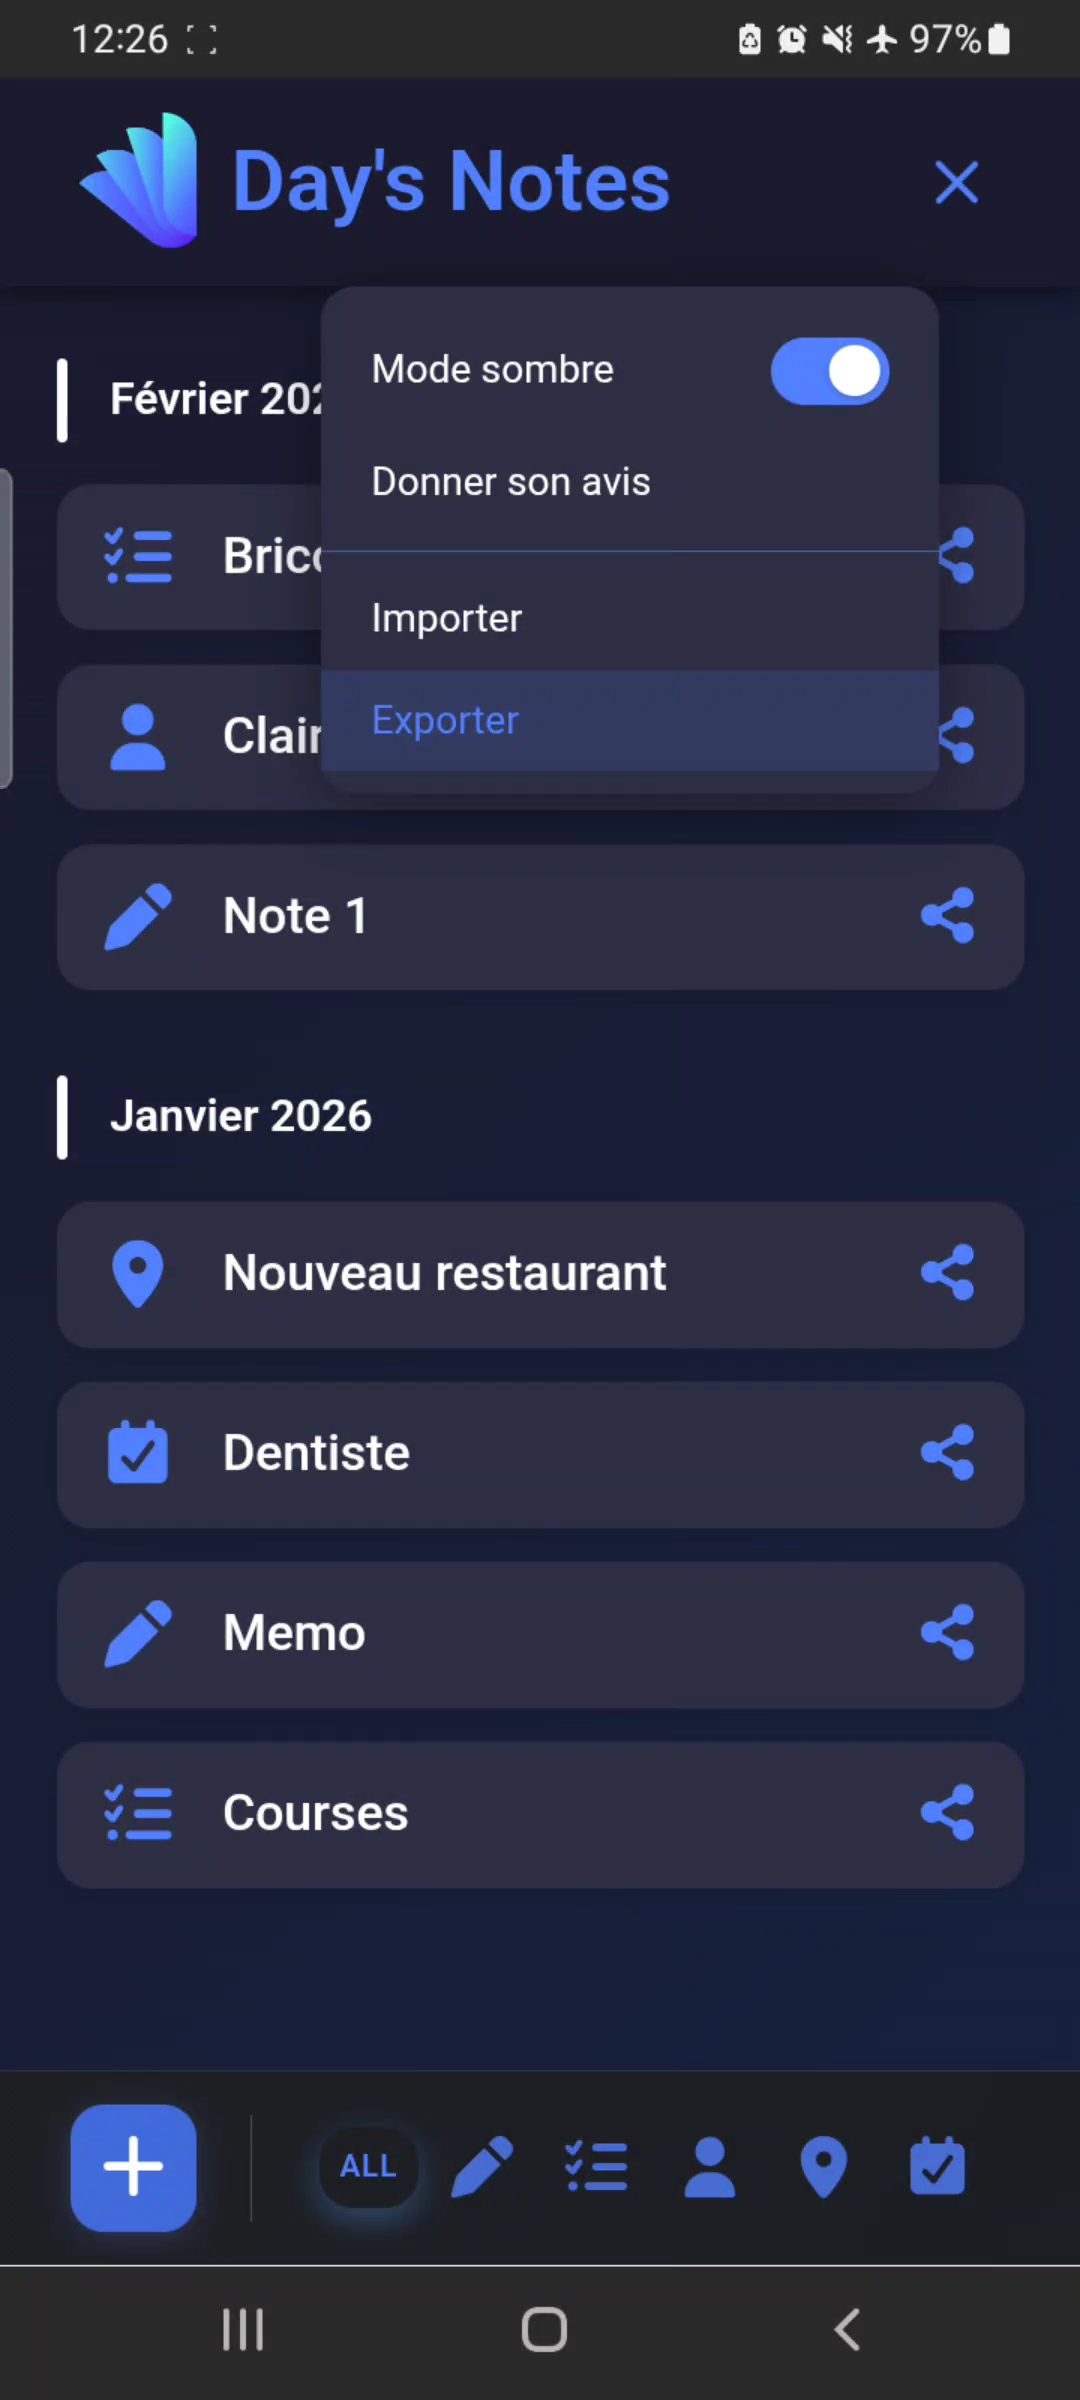
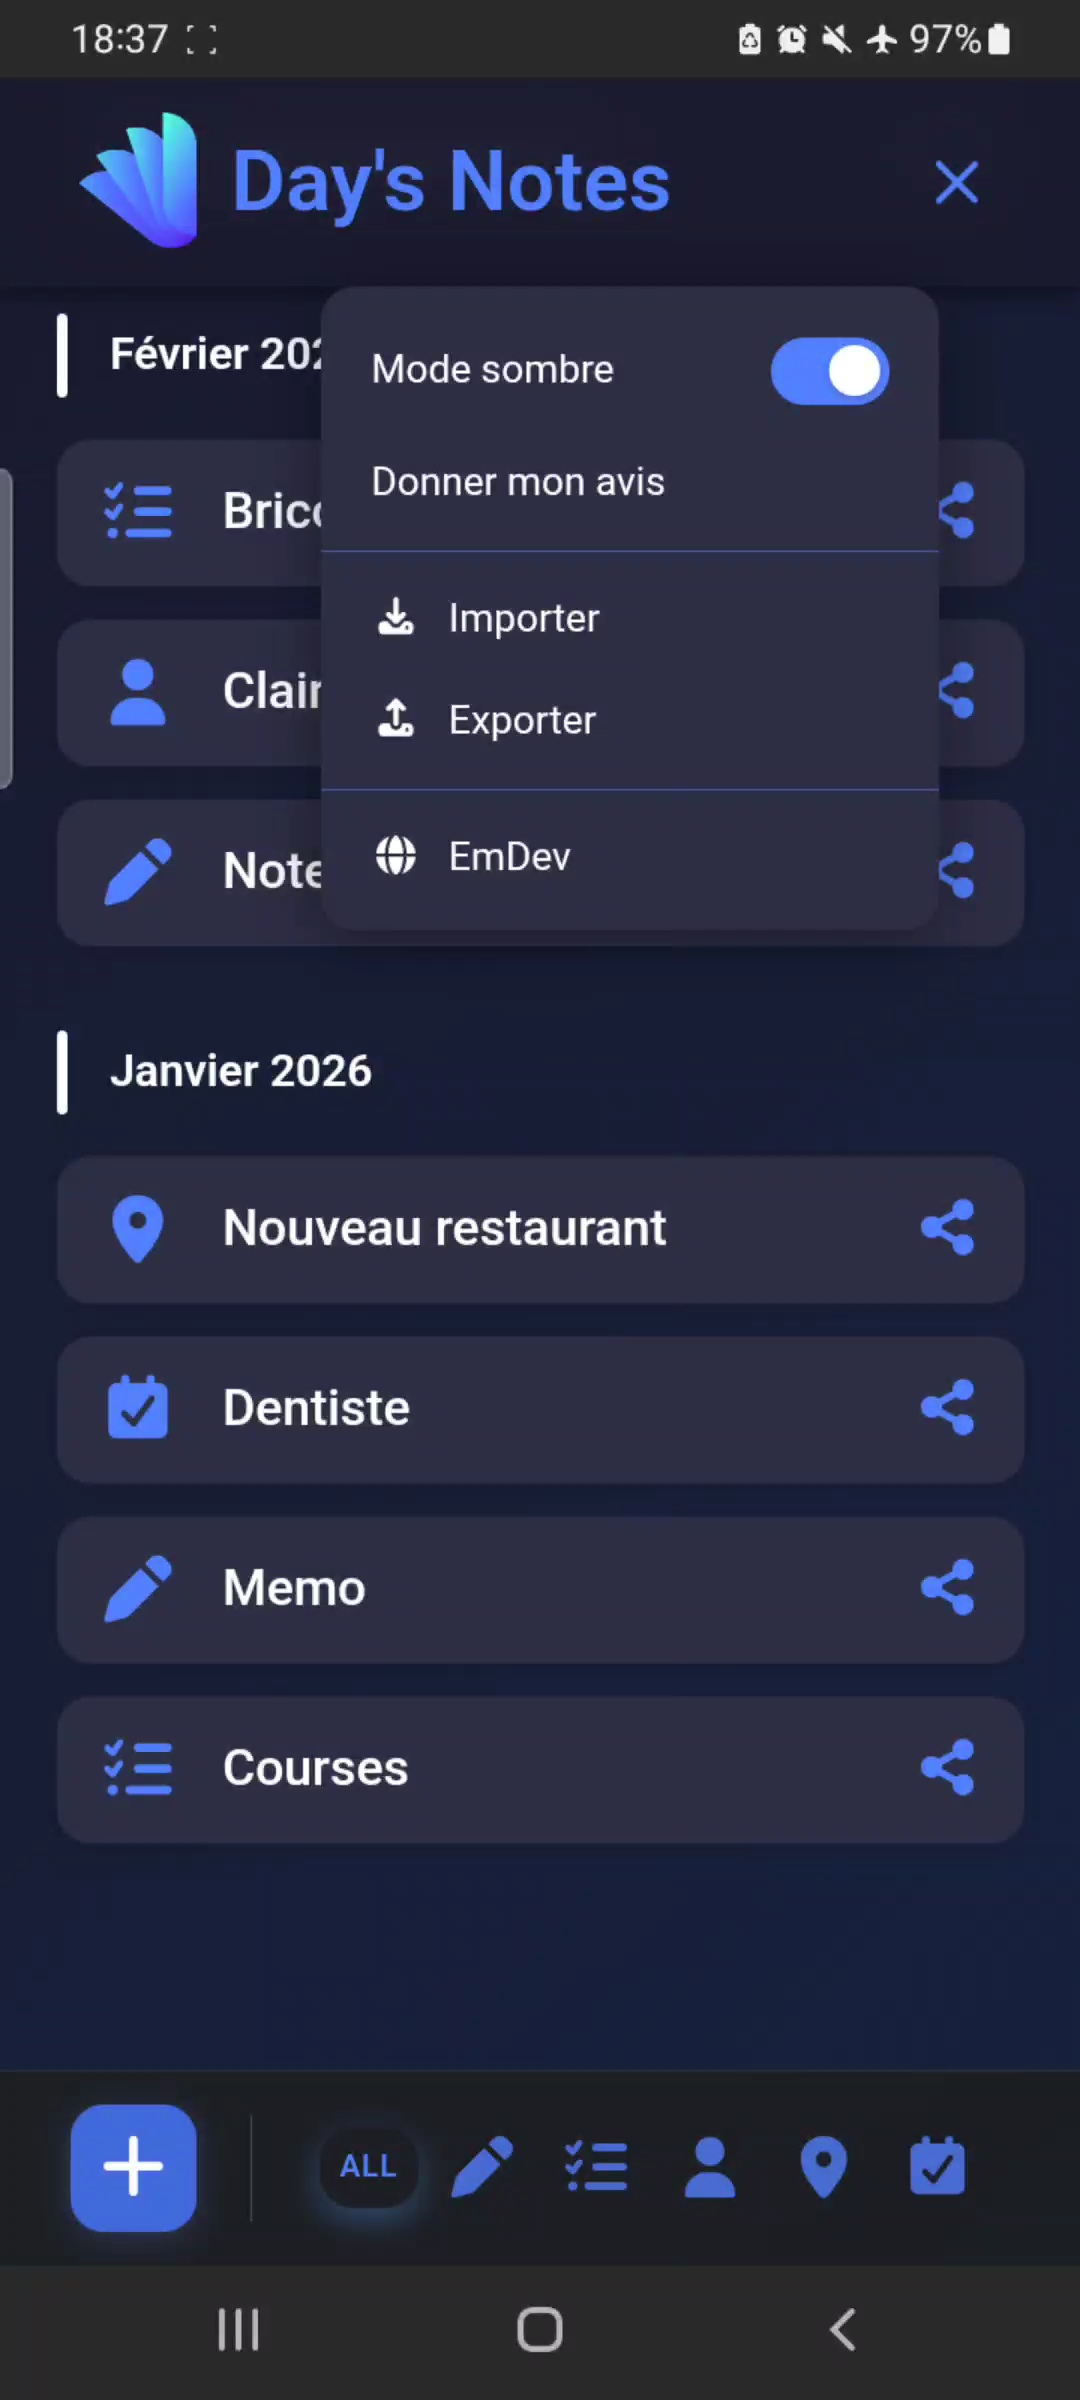
style: changement captures ecran import/export

diff --git a/daysnotes.html b/daysnotes.html
@@ -210,7 +210,7 @@
             </div>
             <div class="screenshot-card">
                 <img src="assets/images/applications/filtre_notes.jpg" alt="Filtre de notes">
-                <p class="screenshot-caption">Filtrez vos notes</p>
+                <p class="screenshot-caption">Filtrez vos notes par type</p>
             </div>
             <div class="screenshot-card">
                 <img src="assets/images/applications/share.jpg" alt="Partage de note">
@@ -218,7 +218,7 @@
             </div>
             <div class="screenshot-card">
                 <img src="assets/images/applications/dark_mode.jpg" alt="Dark mode">
-                <p class="screenshot-caption">Dark mode</p>
+                <p class="screenshot-caption">Mode sombre</p>
             </div>
             <div class="screenshot-card">
                 <img src="assets/images/applications/dsn_export.jpg" alt="export-import">